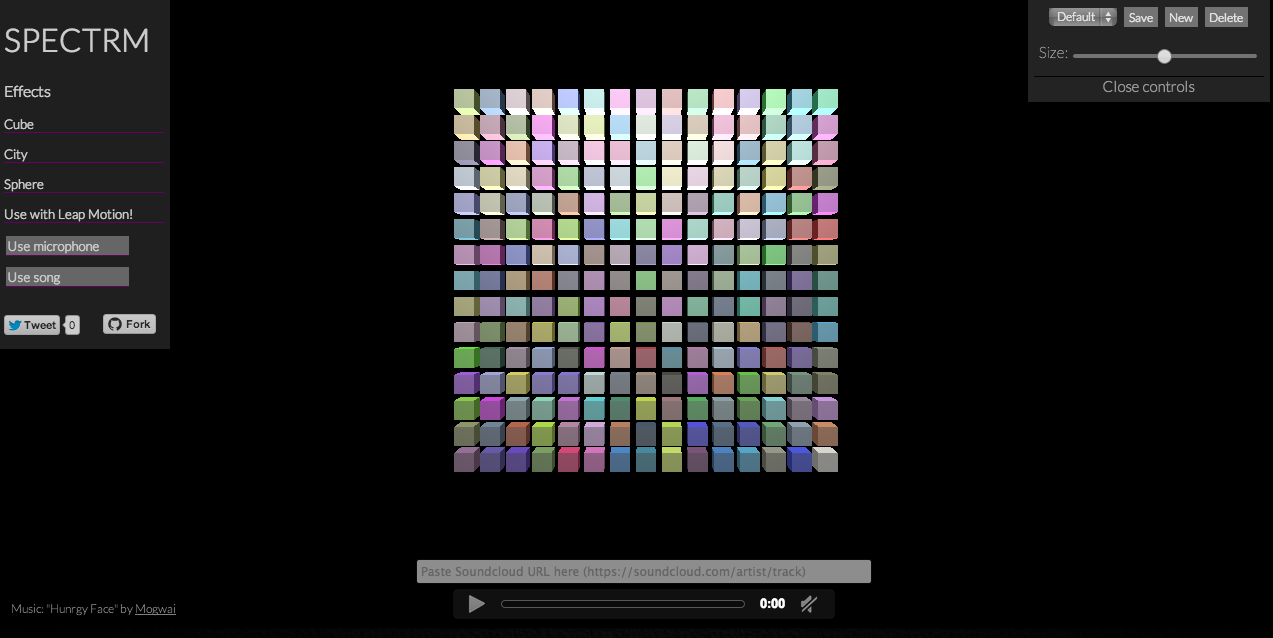
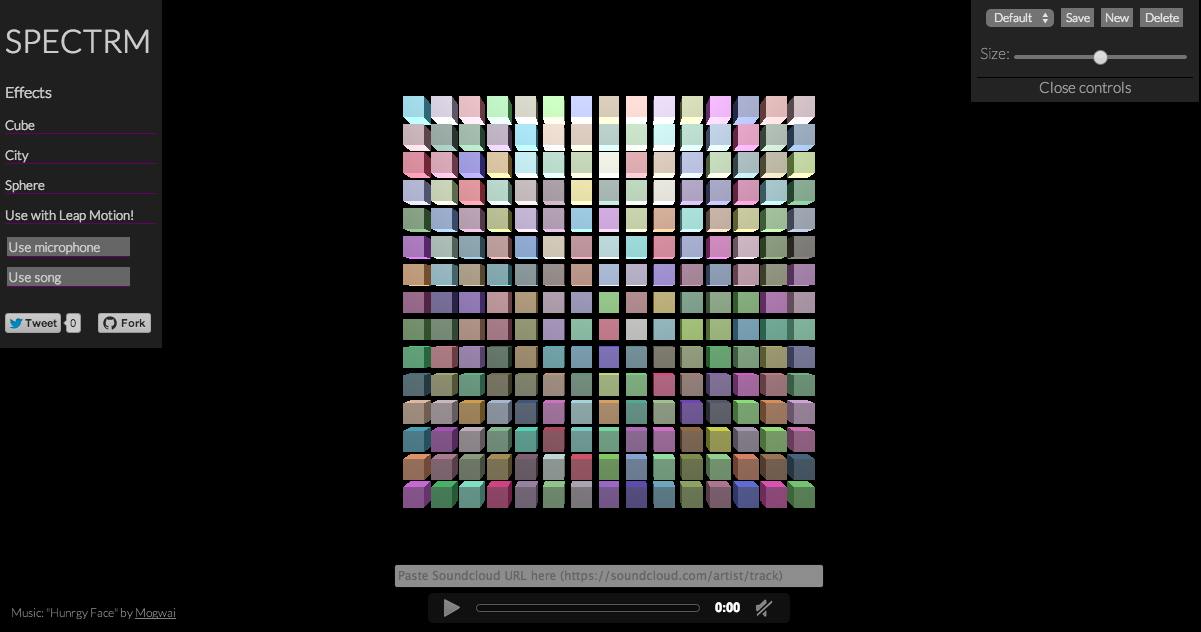
fix spectrm image

diff --git a/index.html b/index.html
@@ -75,7 +75,7 @@
 
 				<div id="spectrm">
 					<a href="http://spectrm.herokuapp.com" target="blank">
-						<img src="/images/readr.png" style="width: 100%; height: 100%"></img>
+						<img src="/images/spectrm.png" style="width: 100%; height: 100%"></img>
 					</a>
 					<h3>SPECTRM - A Music Visualizer</h3>
 					<div id="spectrm_content">
